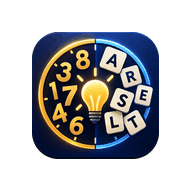
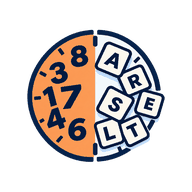
Icono v2 en todas partes y Volver/Atras a Cifras vacia

diff --git a/tests/browser-checks.js b/tests/browser-checks.js
@@ -99,6 +99,12 @@ export async function run(viewports = [[360, 640], [375, 667], [390, 844], [1280
     };
     const numberKey = key => doc.querySelector(`[data-number-key="${key}"]`).click();
     const typeNumber = value => { for (const digit of value) numberKey(digit); numberKey("Enter"); };
+    const volver = async () => {
+      const popped = new Promise(resolve => win.addEventListener("popstate", resolve, { once: true }));
+      byId("calculator-back").click();
+      await Promise.race([popped, new Promise(resolve => setTimeout(resolve, 1000))]);
+      await new Promise(resolve => setTimeout(resolve, 20));
+    };
     const letterKey = key => doc.querySelector(`[data-letter-key="${key}"]`).click();
     const key = value => doc.body.dispatchEvent(new win.KeyboardEvent("keydown", { key: value, bubbles: true, cancelable: true }));
     const tile = value => [...byId("calculator-keys").children].find(button => button.textContent === String(value));
@@ -136,8 +142,17 @@ export async function run(viewports = [[360, 640], [375, 667], [390, 844], [1280
       const iconRect = tabIcon.getBoundingClientRect();
       assert(!doc.querySelector("h1") && !doc.body.textContent.includes("Cifras y Letras"), "El titulo visible debe desaparecer");
       assert(tabIcon.getAttribute("aria-hidden") === "true" && tabIcon.alt === "" && win.getComputedStyle(tabIcon).pointerEvents === "none", "Icono debe ser decorativo");
-      assert(iconRect.left >= cifrasTab.right && iconRect.right <= letrasTab.left && Math.abs((iconRect.left + iconRect.right) / 2 - (cifrasTab.right + letrasTab.left) / 2) <= 1, "Icono no esta centrado entre pestanas");
-      assert(iconRect.top >= tabIcon.parentElement.getBoundingClientRect().top && iconRect.bottom <= tabIcon.parentElement.getBoundingClientRect().bottom, "Icono no cabe en la barra");
+      assert(Math.abs((iconRect.left + iconRect.right) / 2 - (cifrasTab.left + letrasTab.right) / 2) <= 1 && iconRect.left < cifrasTab.right && iconRect.right > letrasTab.left, "Icono debe centrarse y solaparse con ambas pestanas");
+      const bar = tabIcon.parentElement.getBoundingClientRect();
+      assert(Math.abs((iconRect.top + iconRect.bottom) / 2 - (bar.top + bar.bottom) / 2) <= 1 && iconRect.height > bar.height && iconRect.height >= 76 && iconRect.top >= 0, "Icono debe centrarse en vertical y ser mas alto que la barra");
+      for (const tab of [byId("numbers-tab"), byId("letters-tab")]) {
+        const range = doc.createRange(); range.selectNodeContents(tab);
+        const text = range.getBoundingClientRect();
+        assert(text.right <= iconRect.left + 8 || text.left >= iconRect.right - 8, `El icono tapa ${tab.textContent}`);
+        const point = tab === byId("numbers-tab") ? [iconRect.left + 10, (bar.top + bar.bottom) / 2] : [iconRect.right - 10, (bar.top + bar.bottom) / 2];
+        assert(doc.elementFromPoint(...point) === tab, "El icono bloquea las pestanas");
+      }
+      assert(!/(255, 255, 255)/.test(win.getComputedStyle(tabIcon).backgroundColor) && win.getComputedStyle(tabIcon).borderStyle === "none", "Icono sin circulo ni borde blanco");
       const focusKey = byId("number-pad").firstElementChild;
       focusKey.focus();
       assert(win.getComputedStyle(focusKey).outlineStyle === "none", "No debe aparecer anillo de foco");
@@ -312,7 +327,8 @@ export async function run(viewports = [[360, 640], [375, 667], [390, 844], [1280
 
       await load("?n=2,2,2,2,2,2&obj=512");
       assert(!byId("calculator-panel").hidden, "URL completa debe abrir Resolver yo");
-      byId("calculator-back").click();
+      await volver();
+      byId("target").value = "512";
       byId("numbers").value = Array(9).fill("2").join(", ");
       byId("solve-myself").click();
       byId("calculator-auto").click();
@@ -328,19 +344,21 @@ export async function run(viewports = [[360, 640], [375, 667], [390, 844], [1280
 
       await load("?n=100,75,50,25,3,6&obj=952");
       assert(!byId("calculator-panel").hidden, "Reto completo debe abrir Resolver yo");
-      byId("calculator-back").click();
-      assert(!byId("number-actions").hidden && !byId("solve-myself").hidden, "Volver debe permitir editar o resolver");
-      snapshot("Reto completo tras volver");
-      byId("edit-numbers").click();
+      await volver();
+      assert(byId("calculator-panel").hidden && byId("numbers").value === "" && byId("target").value === "" && !byId("number-pad").hidden && byId("number-slots").firstElementChild.classList.contains("current") && byId("number-target-slot").classList.contains("empty"), "Volver debe abrir Cifras vacia y lista");
+      assert(new URL(win.location.href).search === "?modo=cifras", "Volver debe limpiar la URL");
+      snapshot("Cifras vacia tras volver");
+      for (const value of ["100", "75", "50", "25", "3", "6"]) typeNumber(value);
+      for (const digit of "95") numberKey(digit);
       for (let index = 0; index < 40; index++) numberKey("Backspace");
-      assert(byId("numbers").value === "" && byId("target").value === "" && byId("number-slots").firstElementChild.classList.contains("current") && byId("number-target-slot").classList.contains("empty"), "Borrar tras Editar cifras debe vaciarlo todo");
+      assert(byId("numbers").value === "" && byId("target").value === "" && byId("number-slots").firstElementChild.classList.contains("current") && byId("number-target-slot").classList.contains("empty"), "Borrar debe vaciarlo todo");
       assert([...byId("number-slots").children].every(slot => slot.textContent === ""), "Quedan cifras en los huecos");
       snapshot("Todo borrado tras editar");
       for (const value of ["4", "5"]) typeNumber(value);
       byId("numbers-tab").click();
       assert(byId("numbers").value === "" && byId("number-slots").firstElementChild.classList.contains("current") && byId("number-target-value").textContent === "\u00b7\u00b7\u00b7" && !new URL(win.location.href).searchParams.has("n"), "Pulsar Cifras activa debe vaciar");
       await load("?n=100,75,50,25,3,6&obj=952");
-      byId("calculator-back").click();
+      await volver();
       byId("letters-tab").click();
       byId("numbers-tab").click();
       assert(byId("numbers").value === "" && byId("target").value === "" && !byId("number-pad").hidden && !new URL(win.location.href).searchParams.has("obj"), "Cambiar a Cifras debe vaciar");
@@ -349,7 +367,8 @@ export async function run(viewports = [[360, 640], [375, 667], [390, 844], [1280
         [-123456, 987654, -55555, 4444444, 31415926, -27182818, 99999, -1, 123456789]
       ]) {
         await load("?n=1,2,3,4,5,6&obj=271828");
-        byId("calculator-back").click();
+        await volver();
+        byId("target").value = "271828";
         byId("numbers").value = values.join(", ");
         byId("solve-myself").click();
         assert(byId("calculator-keys").children.length === 9, "Calculadora generica limitada a seis");

diff --git a/tests/url-browser-checks.js b/tests/url-browser-checks.js
@@ -25,23 +25,34 @@ export async function run(viewports = [[360, 640], [375, 667], [390, 844]]) {
       let win = frame.contentWindow;
       let doc = frame.contentDocument;
       assert(!doc.getElementById("calculator-panel").hidden && new URL(win.location.href).searchParams.get("yo") === "1", "Reto completo debe abrir Resolver yo");
-      doc.getElementById("calculator-back").click();
-      assert(doc.getElementById("number-slots").querySelectorAll(".done").length === 6, "No se restauran seis cifras");
       assert(doc.getElementById("numbers").value.endsWith(huge), "Se pierde precision en URL");
       assert(doc.getElementById("target").value === "-" + huge, "No se restaura objetivo exacto");
+      const historyStart = win.history.length;
+      win.history.back();
+      await wait(() => frame.contentDocument.getElementById("calculator-panel").hidden);
+      assert(frame.contentWindow.location.href.startsWith(new URL("../index.html", import.meta.url).href) && frame.contentDocument.getElementById("numbers").value === "" && frame.contentDocument.getElementById("target").value === "" && new URL(frame.contentWindow.location.href).search === "?modo=cifras", "Atras desde un enlace a Resolver yo debe dejar Cifras vacia sin salir");
+      win.history.forward();
+      await wait(() => !frame.contentDocument.getElementById("calculator-panel").hidden);
+      const popped = new Promise(resolve => win.addEventListener("popstate", resolve, { once: true }));
+      doc.getElementById("calculator-back").click();
+      assert(doc.getElementById("numbers").value === "" && doc.getElementById("target").value === "" && doc.getElementById("number-slots").firstElementChild.classList.contains("current") && !doc.getElementById("number-pad").hidden, "Volver debe dejar Cifras vacia y lista");
+      await popped;
+      await new Promise(resolve => setTimeout(resolve, 50));
+      assert(new URL(win.location.href).search === "?modo=cifras" && win.history.length === historyStart && doc.getElementById("numbers").value === "", "Volver debe limpiar la URL sin duplicar historial");
+      await load("?" + query);
+      win = frame.contentWindow; doc = frame.contentDocument;
+      doc.getElementById("calculator-back").click();
+      await new Promise(resolve => setTimeout(resolve, 100));
+      assert(doc.getElementById("number-slots").querySelectorAll(".done").length === 0, "Volver no vacia las cifras");
+      await load("?" + query);
       await refresh();
       win = frame.contentWindow; doc = frame.contentDocument;
       assert(doc.getElementById("numbers").value.startsWith("-5, -5, 0"), "Recargar pierde negativos o duplicados");
       assert(!doc.getElementById("calculator-panel").hidden, "Recargar reto completo debe abrir Resolver yo");
-      doc.getElementById("calculator-back").click();
-      doc.getElementById("solve-myself").click();
-      assert(new URL(win.location.href).searchParams.get("yo") === "1", "No se guarda Resolver yo");
-      win.history.back();
-      await wait(() => frame.contentDocument.getElementById("calculator-panel").hidden);
-      win.history.forward();
-      await wait(() => !frame.contentDocument.getElementById("calculator-panel").hidden);
+      const reloadLength = win.history.length;
       await refresh();
       win = frame.contentWindow; doc = frame.contentDocument;
+      assert(win.history.length === reloadLength, "Recargar Resolver yo duplica historial");
       assert(!doc.getElementById("calculator-panel").hidden && doc.getElementById("calculator-keys").children.length === 6, "Recargar no vuelve a Resolver yo");
       assert(doc.documentElement.scrollHeight <= height, "Resolver yo restaurado no cabe");
       doc.getElementById("calculator-back").click();
@@ -80,7 +91,7 @@ export async function run(viewports = [[360, 640], [375, 667], [390, 844]]) {
         assert(`${image.naturalWidth}x${image.naturalHeight}` === icon.sizes, "Icono de manifest invalido");
       }
       const tabIcon = doc.querySelector(".tabs img");
-      assert(tabIcon.complete && tabIcon.naturalWidth === 64, "Icono entre pestanas no carga");
+      assert(tabIcon.complete && tabIcon.naturalWidth === 156, "Icono entre pestanas no carga");
 
       await load("?modo=letras&l=secreto");
       win = frame.contentWindow; doc = frame.contentDocument;

diff --git a/index.html b/index.html
@@ -5,10 +5,10 @@
   <meta name="viewport" content="width=device-width, initial-scale=1">
   <title>Cifras y Letras</title>
   <meta name="theme-color" content="#eef5fb">
-  <link rel="icon" href="favicon.ico?v=1" sizes="16x16 32x32 48x48">
-  <link rel="icon" href="icons/favicon-32.png?v=1" type="image/png" sizes="32x32">
-  <link rel="apple-touch-icon" href="icons/apple-touch-icon.png?v=1" sizes="180x180">
-  <link rel="manifest" href="site.webmanifest?v=3">
+  <link rel="icon" href="favicon.ico?v=2" sizes="16x16 32x32 48x48">
+  <link rel="icon" href="icons/favicon-32.png?v=2" type="image/png" sizes="32x32">
+  <link rel="apple-touch-icon" href="icons/apple-touch-icon.png?v=2" sizes="180x180">
+  <link rel="manifest" href="site.webmanifest?v=4">
   <style>
     :root { color-scheme: light; font: 16px/1.4 system-ui, sans-serif; background: #eef5fb; color: #1d2a44; --ink: #1d2a44; --muted: #3f6fc4; --blue: #3f6fc4; --orange: #f4a77c; --amber: #f6c96b; --line: #2b3a5a; --soft: #f7fafd; --operator: #5b84d1; --target: #e2733a; --result: #8fb0e6; }
     * { box-sizing: border-box; -webkit-tap-highlight-color: transparent; }
@@ -32,10 +32,12 @@
     #status, #letters-status { margin-top: 4px; font-size: .875rem; max-height: 3.9em; overflow: hidden; overflow-wrap: anywhere; }
     #status.error, #letters-status.error { color: #a52826; }
     a { color: var(--blue); text-underline-offset: 3px; }
-    .tabs { display: flex; gap: 4px; padding: 4px; background: #fff; border: 2px solid var(--line); border-radius: 12px; }
-    .tabs button { flex: 1; background: transparent; color: var(--ink); border: 0; box-shadow: none; }
+    .tabs { position: relative; flex: 0 0 auto; display: flex; gap: 4px; padding: 4px; background: #fff; border: 2px solid var(--line); border-radius: 12px; }
+    .tabs button { flex: 1; min-width: 0; background: transparent; color: var(--ink); border: 0; box-shadow: none; }
+    #numbers-tab { padding-right: 38px; }
+    #letters-tab { padding-left: 38px; }
     .tabs button[aria-selected="true"] { background: var(--amber); color: var(--ink); }
-    .tabs img { flex: none; align-self: center; width: 40px; height: 40px; pointer-events: none; user-select: none; }
+    .tabs img { position: absolute; left: 50%; top: 50%; z-index: 1; width: 78px; height: 78px; transform: translate(-50%, -50%); filter: drop-shadow(0 1px 2px rgba(43, 58, 90, .35)); pointer-events: none; user-select: none; }
     #letters-solver:not(.letters-busy):not(.letter-results) #letters-source { display: none; }
     [role="tabpanel"] { flex: 1; min-height: 0; display: flex; flex-direction: column; gap: 10px; }
     form.card { flex: 0 0 auto; }
@@ -154,7 +156,7 @@
   <main>
     <div class="tabs" role="tablist" aria-label="Elige un reto">
       <button id="numbers-tab" type="button" role="tab" aria-selected="true" aria-controls="numbers-panel">Cifras</button>
-      <img src="icons/icon-64.png?v=2" width="40" height="40" alt="" aria-hidden="true" draggable="false">
+      <img src="icons/logo-156.png?v=1" width="78" height="78" alt="" aria-hidden="true" draggable="false">
       <button id="letters-tab" type="button" role="tab" aria-selected="false" aria-controls="letters-panel" tabindex="-1">Letras</button>
     </div>
     <section id="numbers-panel" role="tabpanel" aria-labelledby="numbers-tab">
@@ -234,7 +236,7 @@
   <script src="keypad-model.js?v=26"></script>
   <script src="entry-keypads.js?v=26"></script>
   <script src="celebration.js?v=22"></script>
-  <script src="calculator-ui.js?v=26"></script>
+  <script src="calculator-ui.js?v=27"></script>
   <script>
     "use strict";
 
@@ -244,7 +246,7 @@
     document.getElementById("solver").addEventListener("submit", event => event.preventDefault());
   </script>
   <script src="puzzle-url.js?v=25"></script>
-  <script src="puzzle-state.js?v=25"></script>
+  <script src="puzzle-state.js?v=26"></script>
   <script src="analytics.js?v=2"></script>
   <script data-goatcounter="https://miquelmartin.goatcounter.com/count" async src="https://gc.zgo.at/count.js"></script>
   </body>

diff --git a/puzzle-state.js b/puzzle-state.js
@@ -23,11 +23,17 @@
     const puzzle = currentPuzzle();
     const previous = history.state && typeof history.state === "object" ? history.state : {};
     const state = { ...previous, puzzleView: puzzle.manual ? "manual" : "entrada" };
+    if (!puzzle.manual) delete state.entryBelow;
     const url = new URL(location.href);
     url.search = PuzzleUrl.encode(puzzle, url.search);
     try {
-      if (push) history.pushState(state, "", url);
-      else if (url.href !== location.href || previous.puzzleView !== state.puzzleView) history.replaceState(state, "", url);
+      if (push) {
+        // Leave an empty Cifras entry underneath Resolver yo, so Back (browser, Android or Volver) starts afresh.
+        const empty = new URL(location.href);
+        empty.search = PuzzleUrl.encode({ mode: "cifras", numbers: [], target: "", letters: "", manual: false }, empty.search);
+        history.replaceState({ puzzleView: "entrada" }, "", empty);
+        history.pushState({ ...state, entryBelow: true }, "", url);
+      } else if (url.href !== location.href || previous.puzzleView !== state.puzzleView) history.replaceState(state, "", url);
     } catch (error) {
       console.error("No se pudo guardar el reto en la direcci\u00f3n:", error);
       const status = document.getElementById(puzzle.manual ? "calculator-status" : puzzle.mode === "letras" ? "letters-status" : "status");
@@ -40,7 +46,7 @@
     const puzzle = PuzzleUrl.decode(location.search);
     restoring = true;
     stopLettersWorker();
-    if (!calculator.hidden) document.getElementById("calculator-back").click();
+    if (!calculator.hidden) closeCalculator();
     target.value = puzzle.target;
     setNumberChips(puzzle.numbers);
     setLetterChips(puzzle.letters);
@@ -59,15 +65,31 @@
       status.classList.add("error");
     }
     restoring = false;
-    write();
+    const pushedEntry = history.state && typeof history.state === "object" && history.state.entryBelow;
+    write(initial === true && !calculator.hidden && !pushedEntry);
   }
 
+  let closedPushed = false;
+  let ignoreNextPop = false;
   document.addEventListener("puzzlechange", () => write());
   target.addEventListener("input", () => write());
   document.addEventListener("calculatorviewchange", ({ detail }) => {
     if (restoring) return;
+    if (!detail.open) closedPushed = Boolean(history.state && history.state.entryBelow);
     write(detail.open);
   });
-  window.addEventListener("popstate", () => restore());
+  // Volver has already reset the page; step back onto the empty entry so history does not keep a duplicate.
+  document.addEventListener("calculatorback", () => {
+    if (!closedPushed) return;
+    closedPushed = false;
+    ignoreNextPop = true;
+    history.back();
+  });
+  window.addEventListener("popstate", () => {
+    if (ignoreNextPop) {
+      ignoreNextPop = false;
+      write();
+    } else restore();
+  });
   restore(true);
 })();

diff --git a/tests/icons.test.js b/tests/icons.test.js
@@ -9,7 +9,7 @@ const root = path.join(__dirname, "..");
 test("optimized local icon assets have the declared dimensions and small payloads", () => {
   let bytes = 0;
   for (const [name, size] of [
-    ["favicon-32.png", 32], ["icon-64.png", 64], ["apple-touch-icon.png", 180],
+    ["favicon-32.png", 32], ["logo-156.png", 156], ["apple-touch-icon.png", 180],
     ["icon-192.png", 192], ["icon-512.png", 512], ["maskable-192.png", 192], ["maskable-512.png", 512]
   ]) {
     const data = fs.readFileSync(path.join(root, "icons", name));
@@ -46,9 +46,9 @@ test("manifest and HTML use versioned repository-relative icons for Pages subpat
     assert.ok(fs.existsSync(path.join(root, icon.src.split("?")[0])));
   }
   const html = fs.readFileSync(path.join(root, "index.html"), "utf8");
-  for (const value of ["favicon.ico?v=1", "icons/favicon-32.png?v=1", "icons/apple-touch-icon.png?v=1", "site.webmanifest?v=3"]) {
+  for (const value of ["favicon.ico?v=2", "icons/favicon-32.png?v=2", "icons/apple-touch-icon.png?v=2", "site.webmanifest?v=4"]) {
     assert.ok(html.includes(`href="${value}"`));
   }
   assert.doesNotMatch(html, /<h1/);
-  assert.match(html, /role="tablist"[^>]*>[\s\S]*?id="numbers-tab"[\s\S]*?<img src="icons\/icon-64\.png\?v=2"[^>]*alt=""[^>]*aria-hidden="true"[\s\S]*?id="letters-tab"/);
+  assert.match(html, /role="tablist"[^>]*>[\s\S]*?id="numbers-tab"[\s\S]*?<img src="icons\/logo-156\.png\?v=1"[^>]*alt=""[^>]*aria-hidden="true"[\s\S]*?id="letters-tab"/);
 });

diff --git a/calculator-ui.js b/calculator-ui.js
@@ -332,12 +332,19 @@ for (const button of operatorButtons) {
   button.addEventListener("click", () => calculatorAction(() => manualGame.chooseOperator(button.dataset.operator)));
 }
 document.getElementById("calculator-undo").addEventListener("click", () => calculatorAction(() => manualGame.undo()));
-document.getElementById("calculator-back").addEventListener("click", () => {
+function closeCalculator() {
   cancelAutomatic();
   targetCelebration.stop();
   calculatorPanel.hidden = true;
   document.querySelector("main").classList.remove("manual");
-  document.getElementById("solve-myself").focus();
   document.dispatchEvent(new CustomEvent("calculatorviewchange", { detail: { open: false } }));
+}
+window.closeCalculator = closeCalculator;
+// Volver always starts a fresh Cifras puzzle; puzzle-state also rewinds history onto the empty entry.
+document.getElementById("calculator-back").addEventListener("click", () => {
+  closeCalculator();
+  document.dispatchEvent(new CustomEvent("resetpuzzle", { detail: "cifras" }));
+  document.dispatchEvent(new CustomEvent("calculatorback"));
+  document.querySelector('#number-pad button')?.focus();
 });
 window.addEventListener("pagehide", () => { cancelAutomatic(); targetCelebration.stop(); });

diff --git a/README.md b/README.md
@@ -13,7 +13,7 @@ no hay ninguno, vuelve al numero anterior. Lo tecleado aparece directamente en
 el hueco actual (borde azul discontinuo); no hay franja de "Numero N de 6". Debajo
 de los seis huecos, la caja **Objetivo** espera con `···` hasta su turno y muestra
 el objetivo grande en naranja. Los seis huecos permiten editar
-cifras ya introducidas sin perder las demas; tras **Editar cifras**, borrar sigue
+cifras ya introducidas sin perder las demas; borrar sigue
 retrocediendo por el objetivo y las seis cifras hasta vaciarlo todo. Al
 confirmar el objetivo se abre directamente Resolver yo. No hay tecla menos, campos editables,
 cursor de texto ni teclado del sistema. Los numeros muy largos se abrevian en
@@ -36,7 +36,8 @@ la mas cercana. En Letras, la nota del diccionario aparece tras pulsar Buscar. L
 ambar y azul menos saturados, con contornos y sombras solidas de 2 px.
 
 En Resolver yo, una flecha solida (Volver) tan alta como la caja Objetivo vuelve a
-la entrada; junto al objetivo se indica en pequeno "faltan N" o "sobran N" respecto
+una entrada de Cifras vacia y lista para un reto nuevo (`?modo=cifras`); el boton
+Atras del navegador o de Android lleva a esa misma entrada vacia sin salir del sitio; junto al objetivo se indica en pequeno "faltan N" o "sobran N" respecto
 al boton mas cercano. Las operaciones tienen las mismas esquinas redondeadas que las cifras.
 
 ## Estadisticas
@@ -109,8 +110,9 @@ omiten con un aviso; mas de doce letras se recortan a doce, tambien con aviso.
 Una URL con el reto completo abre Resolver yo. Los enlaces antiguos con enteros negativos se conservan;
 el nuevo teclado no crea signos negativos.
 
-No hay titulo visible: el icono suministrado por el usuario aparece, decorativo,
-entre las pestanas Cifras y Letras. Al instalarla en Android, el manifest usa
+No hay titulo visible: el icono suministrado por el usuario (78 px, sin borde
+blanco) aparece, decorativo, centrado sobre la barra de pestanas, mas alto que
+ella y solapando un poco Cifras y Letras sin tapar su texto ni bloquear toques. Al instalarla en Android, el manifest usa
 iconos sobre fondo blanco, incluidos los adaptables (maskable) con margen de
 zona segura, y fondo de arranque blanco. Todos los recursos usan rutas
 relativas a Pages y pesan juntos menos de 250 KB.
